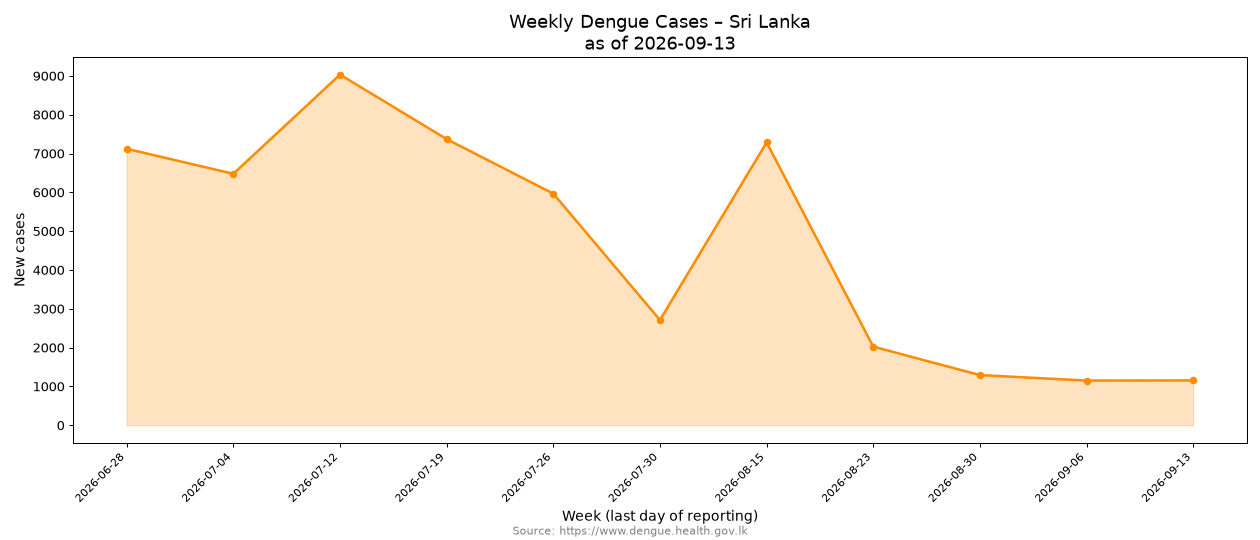
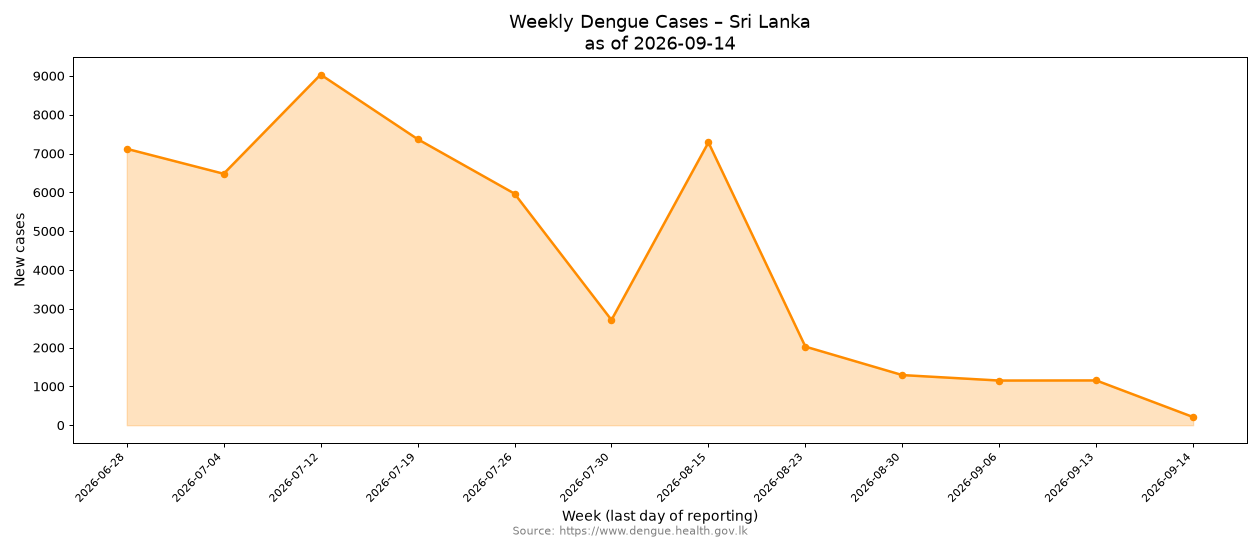
🤖 [pipeline.yml] 2026-09-15-0846

diff --git a/README.md b/README.md
@@ -153,6 +153,7 @@ As of 2026-09-06
 
 ### [National Dengue Control Unit - Daily Update](data/NDCUDaily)
 
+- [2026-09-14](data/NDCUDaily/2026/2026-09/2026-09-14)
 - [2026-09-13](data/NDCUDaily/2026/2026-09/2026-09-13)
 - [2026-09-10](data/NDCUDaily/2026/2026-09/2026-09-10)
 - [2026-09-09](data/NDCUDaily/2026/2026-09/2026-09-09)
